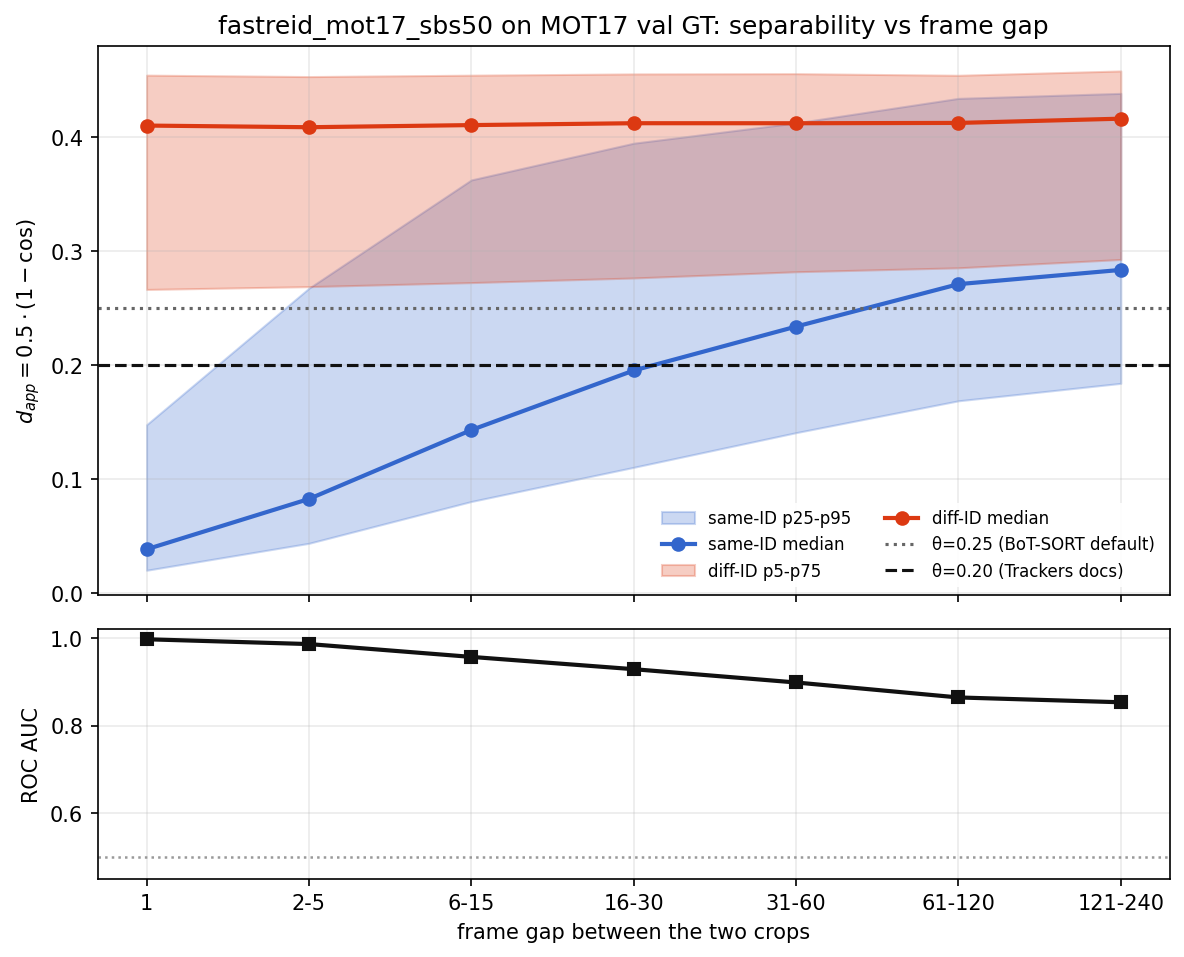
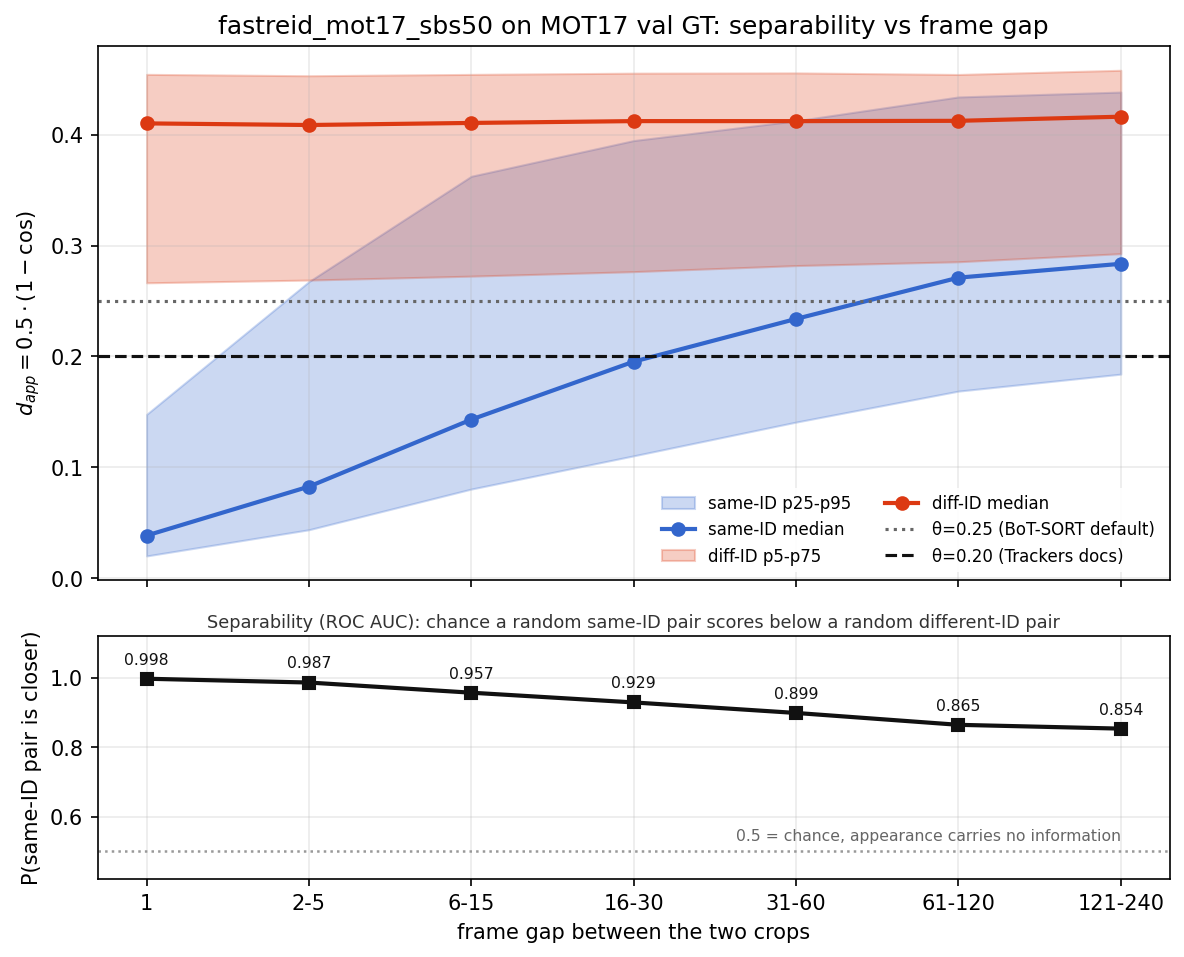
docs(reid): explain what the ROC AUC panel measures
The sweep figure labelled its lower panel "ROC AUC" against an unexplained line
at 0.5, so the reader had no way to tell which direction was good or what the
number compared.

Label the axis with what the statistic literally is, the chance a random same-ID
pair scores closer than a random different-ID pair, annotate each point, and say
inline that 0.5 is chance. Define it in the docs before the first table instead
of two sections later.

diff --git a/notebooks/plot_reid_appearance_distances.py b/notebooks/plot_reid_appearance_distances.py
@@ -390,14 +390,40 @@ def plot_gap_sweep(rows: list[dict[str, object]], *, title: str, out_path: Path)
     ax_dist.legend(loc="lower right", fontsize=8, ncol=2, framealpha=0.92, edgecolor="none")
     ax_dist.grid(True, alpha=0.25)
 
-    ax_auc.plot(x, [r["auc"] for r in rows], color="#111111", marker="s", lw=2)
+    aucs = [r["auc"] for r in rows]
+    ax_auc.plot(x, aucs, color="#111111", marker="s", lw=2)
+    for xi, auc in zip(x, aucs):
+        ax_auc.annotate(
+            f"{auc:.3f}",
+            (xi, auc),
+            textcoords="offset points",
+            xytext=(0, 7),
+            ha="center",
+            fontsize=7.5,
+            color="#111111",
+        )
     ax_auc.axhline(0.5, color="#999999", ls=":", lw=1.2)
+    ax_auc.annotate(
+        "0.5 = chance, appearance carries no information",
+        (len(rows) - 1, 0.5),
+        textcoords="offset points",
+        xytext=(0, 5),
+        ha="right",
+        fontsize=7.5,
+        color="#666666",
+    )
     ax_auc.set(
         xlabel="frame gap between the two crops",
-        ylabel="ROC AUC",
-        ylim=(0.45, 1.02),
+        ylabel="P(same-ID pair is closer)",
+        ylim=(0.42, 1.12),
         xticks=x,
         xticklabels=labels,
+    )
+    ax_auc.set_title(
+        "Separability (ROC AUC): chance a random same-ID pair scores below a random different-ID pair",
+        fontsize=8.5,
+        color="#333333",
+        pad=4,
     )
     ax_auc.grid(True, alpha=0.25)
 

diff --git a/docs/learn/reid.md b/docs/learn/reid.md
@@ -118,6 +118,13 @@ near 0.41 and the 5th percentile near 0.27 from a 1-frame gap out to 240 frames.
 Same-ID distances spread steadily, from a median of 0.04 at a 1-frame gap to 0.20
 across the 16 to 30 band and 0.28 beyond 120 frames.
 
+ROC AUC below is the chance that a random same-ID pair scores closer than a random
+different-ID pair. 1.0 means the two distributions never overlap, 0.5 means
+appearance carries no information at all. It is reported because it needs no
+operating point, so the column does not depend on a target true-positive or
+false-positive rate. The two rates beside it evaluate the thresholds Trackers
+actually ships rather than deriving a new one.
+
 | Frame gap  | ROC AUC | same-ID below 0.2 | different-ID below 0.2 |
 | :--------- | :-----: | :---------------: | :--------------------: |
 | 1          |  0.998  |       98.0%       |          1.7%          |
@@ -146,11 +153,6 @@ different-ID side usable, which is why θ has to come down to about 0.1 on this
 domain instead of being traded against the gap.
 
 ![OSNet MSMT17 separability vs frame gap](../assets/reid/soccernet-osnet-appearance-distances-vs-gap.png)
-
-ROC AUC is reported because it needs no operating point, so the curve does not
-depend on a target true-positive or false-positive rate. The rates in the table
-evaluate the two thresholds Trackers actually ships rather than deriving a new
-one.
 
 ---
 
